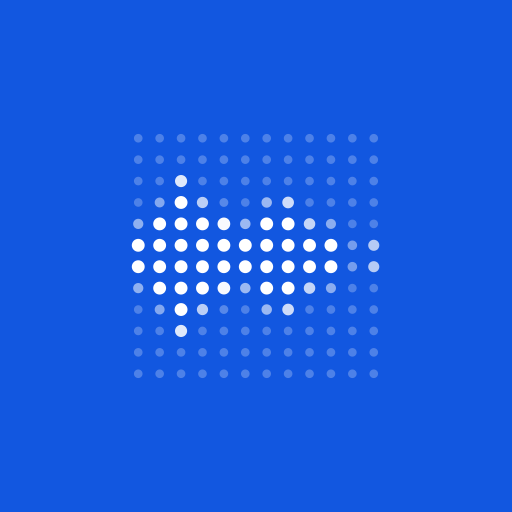
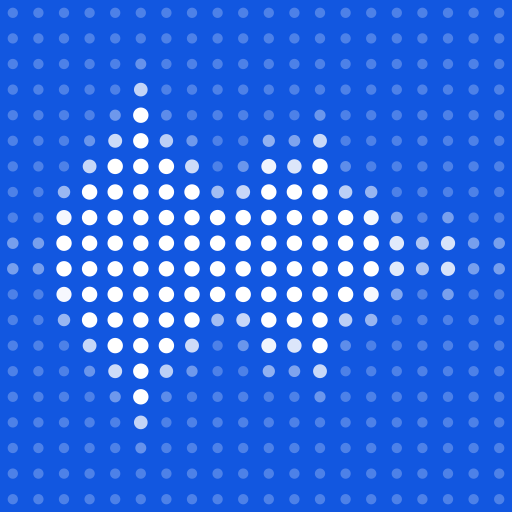
Icônes de l'app : la grille de points couvre toute l'icône
- Grille de 16 × 16 points, chacun au centre de sa case, comme le visualiseur
  du jeu (au lieu de 12 × 12 avec une marge).
- Version Android (maskable) : grille de 20 × 20 et forme dessinée dans les
  80 % du centre, la partie qu'Android garde ; une fois découpée, elle
  ressemble à l'icône normale.
- L'image d'aperçu des liens ne change pas.

diff --git a/scripts/og.html b/scripts/og.html
@@ -8,7 +8,7 @@
        "$chrome" --headless --hide-scrollbars --window-size=512,512 --screenshot=public/icon-512.png "file://$PWD/scripts/og.html#icon-512"
        "$chrome" --headless --hide-scrollbars --window-size=512,512 --screenshot=public/icon-maskable.png "file://$PWD/scripts/og.html#maskable-512"
      « maskable » : Android découpe l'icône en cercle ou en carré arrondi ; la grille
-     reste alors dans le cercle central (80 % de la largeur). -->
+     couvre toute l'icône, et la forme allumée reste au centre, dans la partie gardée. -->
 <html lang="fr-CA">
 <head>
 <meta charset="utf-8">
@@ -60,14 +60,21 @@
   }
   const c = document.getElementById("c"), g = c.getContext("2d");
   // Moins de points, plus gros, que dans le jeu : l'aperçu s'affiche souvent en petit.
-  const N = icon ? 12 : 20, S = (icon ? size : 430) * 2, M = kind === "maskable" ? 0.27 : icon ? 0.2 : 0.14;
+  // Icônes : la grille couvre toute l'icône, chaque point au centre de sa case (comme
+  // dans le jeu) ; l'aperçu garde une marge autour de la grille.
+  // « maskable » : Android n'en garde que les 80 % du centre. Grille plus grande
+  // (20 points) et forme dessinée dans ces 80 % : une fois découpée, elle ressemble
+  // à l'icône normale (16 points).
+  const maskable = kind === "maskable";
+  const N = maskable ? 20 : icon ? 16 : 20, S = (icon ? size : 430) * 2;
   c.width = c.height = S;
-  const side = S * (1 - M * 2), x0 = (S - side) / 2, step = side / (N - 1), mid = (N - 1) / 2;
+  const step = icon ? S / N : S * 0.72 / (N - 1), x0 = icon ? step / 2 : S * 0.14, mid = (N - 1) / 2;
   const dot = step * (icon ? 0.2 : 0.17);
   const level = (x) => 0.18 + 0.5 * Math.exp(-((x - 0.2) ** 2) / 0.02) + 0.38 * Math.exp(-((x - 0.62) ** 2) / 0.03)
     + 0.06 * Math.sin(x * 40) - 0.12 * x;
   for (let col = 0; col < N; col++) {
-    const lv = Math.max(0, Math.min(1, level(col / (N - 1))));
+    const u = maskable ? (col - 2) / (N - 5) : col / (N - 1); // maskable : 16 colonnes du centre
+    const lv = u < 0 || u > 1 ? 0 : Math.max(0, Math.min(1, level(u)));
     for (let r = 0; r < N; r++) {
       const d = Math.abs(r - mid) / mid;
       const lit = Math.max(0, Math.min(1, (lv - d) * 5 + 0.5));
